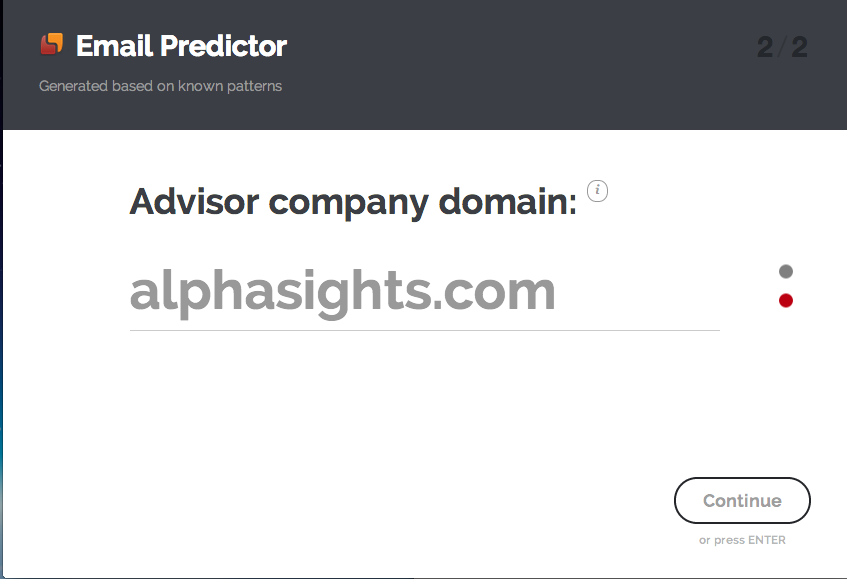
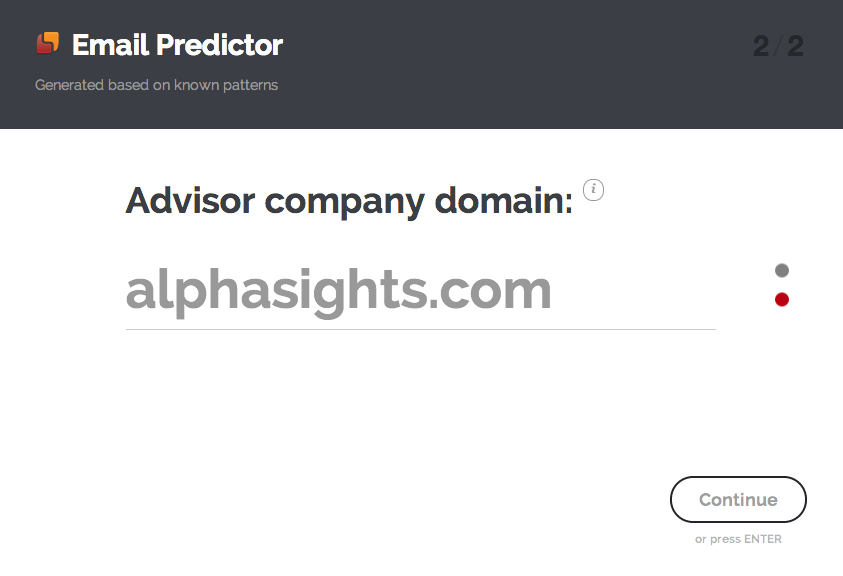
Updated screenshots

diff --git a/README.md b/README.md
@@ -8,7 +8,7 @@ A Ruby on Rails tool to help predict company email addresses based on known form
 
 The following dataset has been used to generate the db/seeds.rb file:
 
-```
+```ruby
 # db/advisors.json
 {
    "John Ferguson":"john.ferguson@alphasights.com",
@@ -37,8 +37,8 @@ Start your Rails server (using Puma):
 
 ## Screenshots
 
-![Enter a name](http://imgur.com/OCsyHHM.png)
-![Enter a company domain](http://imgur.com/LNepLia.png)
+![Enter a name](http://imgur.com/zqPteJN.png)
+![Enter a company domain](http://imgur.com/hJQvKb5.png)
 ![Review information](http://imgur.com/5hPw7h9.png)
 ![Receive predicted email addresses](http://imgur.com/6pxbHtQ.png)
 
